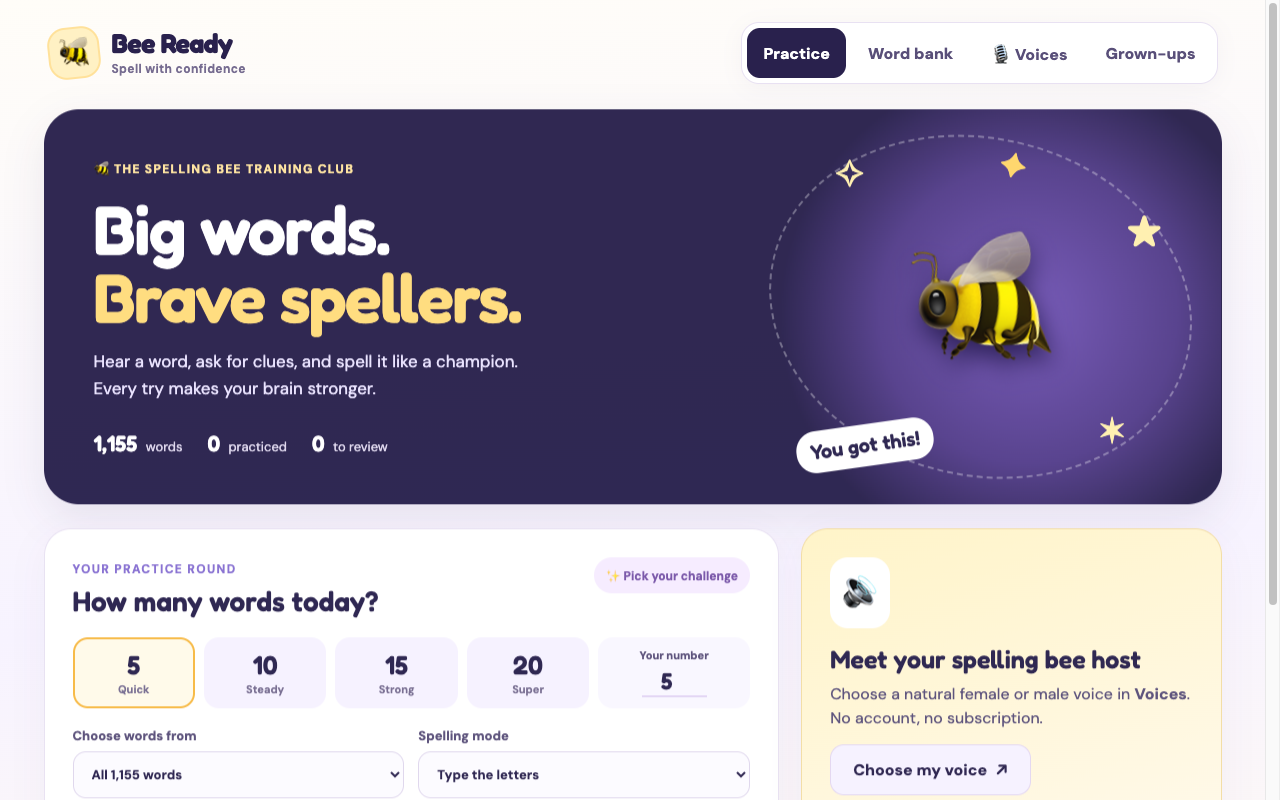
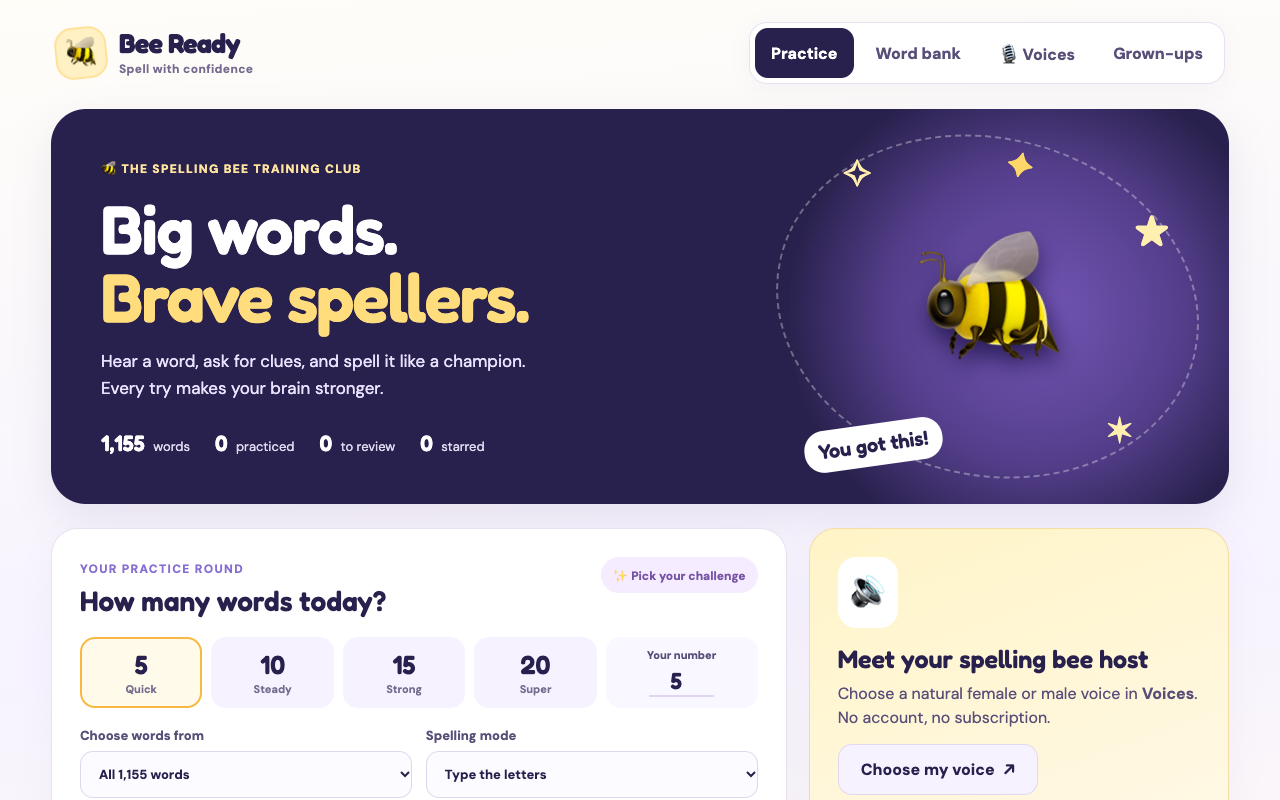
Counts follow words.json, current page copy and screenshots
- word count, pool label and number-box limit are read from words.json, so adding
  or removing words never trips a hard-coded 1,155
- page text now matches how voices work (recordings first, optional live voice)
- sentence test checks whole-word use
- README screenshots retaken, including the word details card

diff --git a/index.html b/index.html
@@ -4,7 +4,7 @@
   <meta charset="utf-8"/>
   <meta name="viewport" content="width=device-width, initial-scale=1, viewport-fit=cover"/>
   <meta name="theme-color" content="#261d48"/>
-  <meta name="description" content="Bee Ready: 1,155 spelling bee words, cheerful practice rounds, and free natural speaking voices with clear download progress."/>
+  <meta name="description" content="Bee Ready: more than 1,000 spelling bee words, cheerful practice rounds, and free natural speaking voices with clear download progress."/>
   <title>Bee Ready · Spelling Practice</title>
   <link rel="icon" href="data:,">
   <link rel="stylesheet" href="./styles.css"/>
@@ -27,7 +27,7 @@
             <span class="eyebrow">🐝 THE SPELLING BEE TRAINING CLUB</span>
             <h1 id="practice-title">Big words.<br><em>Brave spellers.</em></h1>
             <p>Hear a word, ask for clues, and spell it like a champion. Every try makes your brain stronger.</p>
-            <div class="statbar"><span><b id="heroWordCount">1,155</b> words</span><span><b id="heroBest">0</b> practiced</span><span><b id="heroMissed">0</b> to review</span><span><b id="heroStarred">0</b> starred</span></div>
+            <div class="statbar"><span><b id="heroWordCount">—</b> words</span><span><b id="heroBest">0</b> practiced</span><span><b id="heroMissed">0</b> to review</span><span><b id="heroStarred">0</b> starred</span></div>
           </div>
           <div class="hero-art" aria-hidden="true"><div class="bee-orbit">✦</div><div class="bee-friend">🐝</div><span class="star star-a">✧</span><span class="star star-b">✶</span><span class="star star-c">★</span><span class="hero-speech">You got this!</span></div>
         </div>
@@ -39,10 +39,10 @@
               <button class="count-option" data-count="10" aria-pressed="false">10<small>Steady</small></button>
               <button class="count-option" data-count="15" aria-pressed="false">15<small>Strong</small></button>
               <button class="count-option" data-count="20" aria-pressed="false">20<small>Super</small></button>
-              <label class="custom-count">Your number<input id="wordCount" type="number" min="1" max="1155" value="5" inputmode="numeric" aria-label="Custom number of words"></label>
+              <label class="custom-count">Your number<input id="wordCount" type="number" min="1" value="5" inputmode="numeric" aria-label="Custom number of words"></label>
             </div>
             <div class="form-row">
-              <label class="field">Choose words from <select id="pool"><option value="all">All 1,155 words</option><option value="study">Study words (booklet group)</option><option value="challenge">Challenge words (booklet group)</option><option value="missed">Words to review</option><option value="starred">My starred words</option></select></label>
+              <label class="field">Choose words from <select id="pool"><option value="all">All words</option><option value="study">Study words (booklet group)</option><option value="challenge">Challenge words (booklet group)</option><option value="missed">Words to review</option><option value="starred">My starred words</option></select></label>
               <label class="field">Spelling mode <select id="practiceMode"><option value="type">Type the letters</option><option value="oral">Say it out loud (with a grown-up)</option></select></label>
             </div>
             <button id="startRound" class="primary-btn big-btn">🐝 Start my spelling bee <span aria-hidden="true">→</span></button>
@@ -52,7 +52,7 @@
           <aside class="panel side-note">
             <div class="note-icon">🔊</div><h3>Meet your spelling bee host</h3><p>Choose a natural female or male voice in <strong>Voices</strong>. No account, no subscription.</p>
             <button class="soft-btn" data-go="voices">Choose my voice <span aria-hidden="true">↗</span></button>
-            <div class="note-divider"></div><p class="small-note">Natural voice files download the first time. You'll see a progress bar, and device speech is available on supported browsers.</p>
+            <div class="note-divider"></div><p class="small-note">Recorded voices play right away. An optional live voice can be downloaded on request, with a progress bar, and device speech is available on supported browsers.</p>
           </aside>
         </div>
         <div id="roundArea" class="round-panel hidden">
@@ -73,9 +73,9 @@
         </div>
       </section>
       <section class="tab-panel" id="tab-words" aria-labelledby="words-title">
-        <div class="section-intro"><span class="mini-kicker">THE COMPLETE REFERENCE</span><h1 id="words-title">Your word bank</h1><p>Explore all 1,155 spelling bee words, their definitions, original booklet groups, and dictionary pronunciation links. Study and Challenge are the original booklet's fixed groups, not grade levels. To save your own words, press the Star button (☆) on any card. Press <strong>Details</strong> on a card for its sentence, origin and slow audio.</p></div>
+        <div class="section-intro"><span class="mini-kicker">THE COMPLETE REFERENCE</span><h1 id="words-title">Your word bank</h1><p>Explore all the spelling bee words, their definitions, original booklet groups, and dictionary pronunciation links. Study and Challenge are the original booklet's fixed groups, not grade levels. To save your own words, press the Star button (☆) on any card. Press <strong>Details</strong> on a card for its sentence, origin and slow audio.</p></div>
         <div class="panel"><div class="form-row"><label class="field">Find a word<input id="searchWord" type="search" placeholder="Search spelling or meaning…" autocomplete="off"></label><label class="field">Filter by group<select id="groupFilter"><option value="all">All origins</option></select></label><label class="field">Level<select id="levelFilter"><option value="all">All levels</option><option value="Study">Study</option><option value="Challenge">Challenge</option></select></label><label class="field">Show<select id="starFilter"><option value="all">All words</option><option value="starred">My starred words only</option></select></label></div>
-        <div class="results-head"><strong id="resultCount" role="status" aria-live="polite" aria-atomic="true">1,155 words</strong><span>Fixed booklet groups, not grade levels. The Star button (☆) saves your own.</span></div><h2 class="sr-only">Words</h2><div id="wordGrid" class="word-grid"></div><button id="loadMore" class="soft-btn block-btn">Show more words</button></div>
+        <div class="results-head"><strong id="resultCount" role="status" aria-live="polite" aria-atomic="true">Loading words…</strong><span>Fixed booklet groups, not grade levels. The Star button (☆) saves your own.</span></div><h2 class="sr-only">Words</h2><div id="wordGrid" class="word-grid"></div><button id="loadMore" class="soft-btn block-btn">Show more words</button></div>
       </section>
       <section class="tab-panel" id="tab-voices" aria-labelledby="voices-title">
         <div class="section-intro"><span class="mini-kicker">MEET YOUR BEE HOST</span><h1 id="voices-title">Find your favorite voice</h1><p>Natural American English voices, a reliable backup, and an instant device-voice option. No accounts or keys.</p></div>
@@ -85,13 +85,13 @@
           <h3 class="settings-heading">Choose your audio mode</h3><div class="audio-mode"><label><input type="radio" name="engineMode" value="auto" checked> Natural voice with automatic backup <small>Kokoro → Piper → device speech</small></label><label><input type="radio" name="engineMode" value="device"> Device voice only <small>No download, fastest start</small></label></div>
           <div class="voice-actions"><button id="prepareVoice" class="primary-btn">⬇ Add live voice for new words</button><button id="previewVoice" class="soft-btn">▶ Play voice sample</button><button id="retryVoice" class="text-btn">Retry natural audio</button></div>
           <div id="voiceStatus" class="status-message" role="status" aria-live="polite">Natural recorded voice ready. Every word plays instantly.</div>
-          <p class="helper">Words, sentence clues and the voice sample play from short recordings, with no download. Anything without a recording yet uses your device voice right away. The optional live voice is a large one-time download (about 90 MB) that can be slow on phones; the next engine is tried automatically. If Safari blocks playback, tap Play once more.</p>
+          <p class="helper">Recorded words, sentences and the voice sample play with no download. Anything without a recording yet uses your device voice right away. The optional live voice is a large one-time download (about 90 MB) that can be slow on phones; the next engine is tried automatically. If Safari blocks playback, tap Play once more.</p>
         </div>
       </section>
       <section class="tab-panel" id="tab-grownups" aria-labelledby="grownups-title">
         <div class="section-intro"><span class="mini-kicker">TOOLS FOR GROWN-UPS</span><h1 id="grownups-title">Practice that builds confidence</h1><p>Simple, repeatable spelling activities plus your printable word resources.</p></div>
         <div class="content-grid"><div class="panel"><h2>Try the 10-minute routine</h2><ol class="routine"><li><b>Warm up</b> with a few older words.</li><li><b>Say the new word</b>, explain what it means and use it in a sentence.</li><li><b>Notice the tricky letters</b> before hiding the spelling.</li><li><b>Spell from memory</b>, then check each letter.</li><li><b>Review missed words</b> tomorrow and later in the week.</li></ol><p class="helper">Study tips align with spaced retrieval and explicit letter-sound study.</p></div><div class="panel"><h2>Printable practice pack</h2><div class="downloads"><a href="./assets/Spelling_Bee_Practice_Workbook.pdf" download>📄 Practice workbook <span>PDF ↗</span></a><a href="./assets/Spelling_Bee_Alphabetical_List.pdf" download>📄 Alphabetical checklist <span>PDF ↗</span></a><a href="./assets/Spelling_Bee_Definitions_Reference.pdf" download>📄 Complete definitions <span>PDF ↗</span></a></div><p class="helper">For unusual pronunciations or meanings, consult the linked dictionaries or the competition's pronouncer.</p></div></div>
-        <div class="panel foot-note"><h3>About the clues and audio</h3><p>“Origin” uses the booklet's language group. Some words traveled through multiple languages; the group is not a complete etymology. Definitions are simplified study explanations, not official competition definitions. Spelling bee rules vary by organizer.</p><p>Natural voices run on the device and require a first download of model files. These files are cached by the browser when storage allows. Speech uses no account or API key. For words such as <i>learned</i> and <i>dogged</i>, pronunciation can depend on meaning and should be confirmed with a grown-up.</p><p>Practice history and starred words are saved only in this browser on this device. Nothing is sent to a server.</p><div class="clear-actions"><button id="clearHistory" class="text-btn">Clear this device's practice history</button><button id="clearStars" class="text-btn">Clear this device's starred words</button><span id="clearStarsStatus" class="clear-status" role="status" aria-live="polite"></span></div></div>
+        <div class="panel foot-note"><h3>About the clues and audio</h3><p>“Origin” uses the booklet's language group. Some words traveled through multiple languages; the group is not a complete etymology. Definitions are simplified study explanations, not official competition definitions. Spelling bee rules vary by organizer.</p><p>Words and sentences play from short recordings, with no download. If one has no recording yet, your device voice reads it. The optional live voice needs a first download of model files, which the browser caches when storage allows. Speech uses no account or API key. For words such as <i>learned</i> and <i>dogged</i>, pronunciation can depend on meaning and should be confirmed with a grown-up.</p><p>Practice history and starred words are saved only in this browser on this device. Nothing is sent to a server.</p><div class="clear-actions"><button id="clearHistory" class="text-btn">Clear this device's practice history</button><button id="clearStars" class="text-btn">Clear this device's starred words</button><span id="clearStarsStatus" class="clear-status" role="status" aria-live="polite"></span></div></div>
       </section>
     </main>
     <footer class="footer"><span>🐝 Bee Ready · Every word is a new adventure</span><span>No account required · Made for curious spellers</span></footer>

diff --git a/app.js b/app.js
@@ -29,7 +29,7 @@ function updateStats(){
   $('heroMissed').textContent=Object.keys(history.missed||{}).length.toLocaleString();
   const n=starredWords().length;$('heroStarred').textContent=n.toLocaleString();
   const opt=$('pool').querySelector('option[value="starred"]');if(opt)opt.textContent=`My starred words (${n.toLocaleString()})`;
-  $('heroWordCount').textContent=words.length?words.length.toLocaleString():'1,155';
+  $('heroWordCount').textContent=words.length?words.length.toLocaleString():'—';
 }
 // Star buttons keep one fixed accessible name (set in the markup); aria-pressed carries the state and only the decorative glyph changes.
 // The round button's name never includes the word: in typed mode it would give the answer away.
@@ -286,7 +286,8 @@ async function main(){
   try{
     const response=await fetch('./words.json');if(!response.ok)throw new Error(`Word bank download failed (${response.status})`);
     words=await response.json();
-    if(words.length!==1155)console.warn('Expected 1155 entries. Received',words.length);
+    // The word list is the source of truth: counts shown on the page follow whatever words.json holds.
+    $('wordCount').max=String(words.length);$('pool').options[0].textContent=`All ${words.length.toLocaleString()} words`;
     [...new Set(words.map(w=>w.group))].sort((a,b)=>a.localeCompare(b)).forEach(g=>{$('groupFilter').add(new Option(g,g));});
     updateStats();renderWordBank();
   }catch(err){

diff --git a/README.md b/README.md
@@ -46,6 +46,7 @@ Open the site, pick how many words you want, and start. There is nothing to inst
 
 <p align="center">
   <img src="docs/screenshot-phone.png" alt="Bee Ready on a phone" width="260">
+  <img src="docs/screenshot-word-details.png" alt="A word card with its Details open, showing part of speech, origin, booklet list, the practice sentence and three listen buttons" width="300">
 </p>
 
 ### Printables
